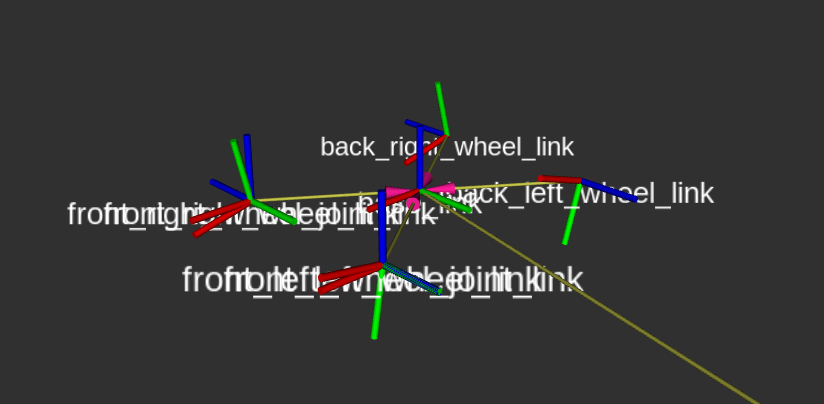
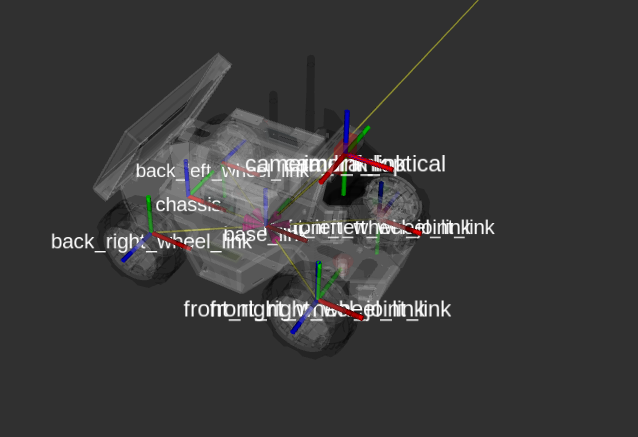
Readme update lab1.1 v.1

diff --git a/readme.md b/readme.md
@@ -1,10 +1,9 @@
 # FRA532_LAB1
 
-เดี่ยวมาเขียนต่อ
+To be updated soon.
 
-Wait to fix
-* PurePrusite 
-* EKF
+Pending tasks:
+* Implement Extended Kalman Filter (EKF)
 
 ## Usage
 
@@ -12,9 +11,12 @@ Run simulation it's has two mode on steering control mode
 1. basic
 2. nscc (Default)
 
+example :
 ```bash
 # Run the project
 ros2 launch robot_bringup robot_bringup.launch.py steering_mode:=nscc
+
+#can change steering_mode to nscc or basic
 ```
 
 Control with Keyboard
@@ -28,11 +30,168 @@ Controll with Controller Mode
 2. pid
 3. stanley 
 
+example :
 ```bash
+# Run controller
 ros2 launch robot_controller robot_controller.launch.py control_mode:=pure_pursuit
+#can change control_mode to pure_pursuit, pid or stanley 
 ```
-
 > [!WARNING]
-> When need to restart controller
+> When you need to restart the controller, please restart the simulation.
 > Please restart simulation
 
+## LAB 1.1 Mobile Robot Kinematics
+### 1. Model Ackerman Steering
+
+A 4-wheel mobile robot with Ackerman steering has been created using the Limo robot as a model in the package [`robot_description`](/src/robot_description/), and the TF of the robot is shown below:
+
+<!-- ![Fake_limo_tf.png](/images/fake_limo_tf.png) -->
+<img src='./images/fake_limo_tf.png' alt='Fake limo TF' class="image-full-width">
+
+The robot has also been imported into Gazebo in the package `robot_sim`.
+
+<!-- ![robotingazebo.png](/images/robotingazebo.png) -->
+<img src='./images/robotingazebo.png' alt='robot in Gazebo world' class="image-full-width">
+
+### 2. Inverse Kinematics
+Inverse Kinematics has two models: `Basic Model` and `No Slip Condition Constraints`, implemented in the nodes [`InverKinematic-basic.py`](/src/robot_controller/scripts/Kinematic/InverKinematic-basic.py) and [`InverKinematic-nscc.py`](/src/robot_controller/scripts/Kinematic/InverKinematic-nscc.py).
+
+#### 2.1 Basic Model
+The Basic Model assumes that the steering angles of both wheels are equal, similar to a bicycle.
+
+The steering angle in the Basic Model is calculated as follows:
+
+```math
+\delta = \arctan\left(\frac{\omega \cdot L}{V_x}\right)
+```
+Where:
+* $\delta$ is the steering angle
+* $\omega$ is the angular velocity
+* $L$ is the wheelbase length
+* $V_x$ is the forward velocity
+
+
+#### 2.2 No Slip condition constraints
+The No Slip Condition Constraints model ensures that the steering angles of the two wheels are different, which helps prevent the vehicle from skidding.
+
+
+```math
+\delta = \arctan\left(\frac{\omega \cdot L}{V_x}\right)
+```
+จากนั้นคำนวณมุมเลี้ยวซ้าย-ขวาตามหลัก Ackermann steering geometry:
+
+```math
+\delta_{left} = \arctan\left(\frac{L \cdot \tan(\delta)}{L + 0.5 \cdot W \cdot \tan(\delta)}\right)
+```
+```math
+\delta_{right} = \arctan\left(\frac{L \cdot \tan(\delta)}{L - 0.5 \cdot W \cdot \tan(\delta)}\right)
+```
+
+Where:
+* $\delta$ is the center steering angle
+* $\delta_{left}$ is the left wheel steering angle
+* $\delta_{right}$ is the right wheel steering angle
+* $L$ is the wheelbase length (distance between front and rear axles)
+* $W$ is the track width (distance between left and right wheels)
+* $\omega$ is the angular velocity
+* $V_x$ is the forward velocity
+
+### 3. Forward Kinematics
+
+Forward Kinematics has 3 Models: `YawRate`,`1Track` and `2Track`,
+implemented in the nodes :[`ForwardKinematic-All.py`](/src/robot_controller/scripts/Kinematic/ForwardKinematic-All.py)
+
+#### 3.1 Yaw Rate Model 
+For the Yaw Rate model, we calculate velocities from the rear_left and rear_right wheel speeds:
+
+```math
+V = \frac{v_{left} + v_{right}}{2}
+```
+```math
+\omega = \frac{v_{right} - v_{left}}{W}
+```
+Then we update the robot's position and orientation using mid-point integration:
+
+
+```math
+x_{t+1} = x_t + V \cdot dt \cdot \cos\left(\theta_t + \frac{\omega \cdot dt}{2}\right)
+```
+```math
+y_{t+1} = y_t + V \cdot dt \cdot \sin\left(\theta_t + \frac{\omega \cdot dt}{2}\right)
+```
+```math
+\theta_{t+1} = \theta_t + \omega \cdot dt
+```
+Where:
+
+* $V$ is the linear velocity of the robot
+* $\omega$ is the angular velocity of the robot
+* $dt$ is the time step
+* $(x, y, \theta)$ is the robot's pose (position and orientation)
+* $dt$ is the time step
+* $\theta$ is the robot's orientation (measured in radians)
+#### 3.2 Single-track model
+For the Single-Track (Bicycle) model, we calculate the linear velocity from the average of the rear wheels:
+```math
+V = \frac{v_{rear\_left} + v_{rear\_right}}{2}
+```
+Then we calculate the angular velocity based on the steering angle:
+```math
+\omega = \frac{V}{L} \tan(\delta)
+```
+Finally, we update the robot's position and orientation using mid-point integration:
+
+```math
+x_{t+1} = x_t + V \cdot dt \cdot \cos\left(\theta_t + \frac{\omega \cdot dt}{2}\right)
+```
+```math
+y_{t+1} = y_t + V \cdot dt \cdot \sin\left(\theta_t + \frac{\omega \cdot dt}{2}\right)
+```
+```math
+\theta_{t+1} = \theta_t + \omega \cdot dt
+```
+
+Where:
+
+* $V$ and $\omega$ are defined in the consolidated section above.
+* $v_{rear_left}$ and $v_{rear_right}$ are the rear wheel velocities
+* $L$ is the wheelbase length (distance between front and rear axles)
+* $\delta$ is the steering angle
+
+#### 3.3 Double-track model
+For the Double-Track model, we first calculate the linear velocity from the average of the rear wheels:
+
+```math
+V = \frac{v_{rear\_left} + v_{rear\_right}}{2}
+```
+Then we calculate the angular velocity using a more complex formula that accounts for the full geometry of the vehicle:
+```math
+\omega = \frac{v_{rear\_right} - v_{rear\_left}}{d_r \cdot [\sin(d_{rl} + \theta) - \sin(d_{rr} + \theta)]}
+```
+Where:
+
+* $d_r = \sqrt{L^2 + W^2}$ is the distance between the contact points
+* $d_{rr} = \arctan(L/W)$ is the angle of the right wheel relative to the robot's frame
+* $d_{rl} = \pi - d_{rr}$ is the angle between the left wheel's contact point and the robot's center, measured relative to the robot's orientation
+
+Finally, we update the robot's position and orientation using mid-point integration:
+
+```math
+x_{t+1} = x_t + V \cdot dt \cdot \cos\left(\theta_t + \frac{\omega \cdot dt}{2}\right)
+```
+
+```math
+y_{t+1} = y_t + V \cdot dt \cdot \sin\left(\theta_t + \frac{\omega \cdot dt}{2}\right)
+```
+
+```math
+\theta_{t+1} = \theta_t + \omega \cdot dt
+```
+
+Where:
+
+* $V$ and $\omega$ are defined in the consolidated section above.
+* $v_{rear_left}$ and $v_{rear_right}$ are the rear wheel velocities
+* $L$ is the wheelbase length
+* $W$ is the track width
+* $\theta$ is the robot's orientation
